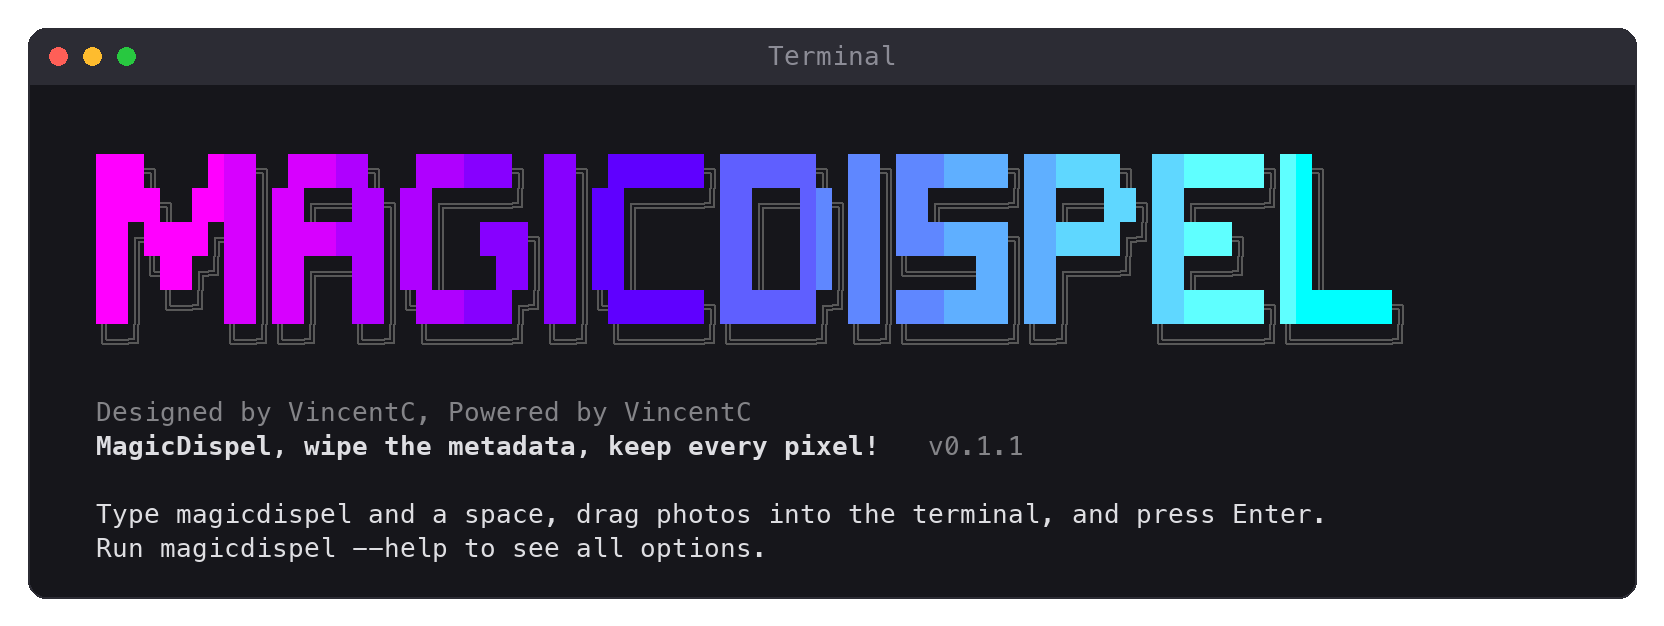
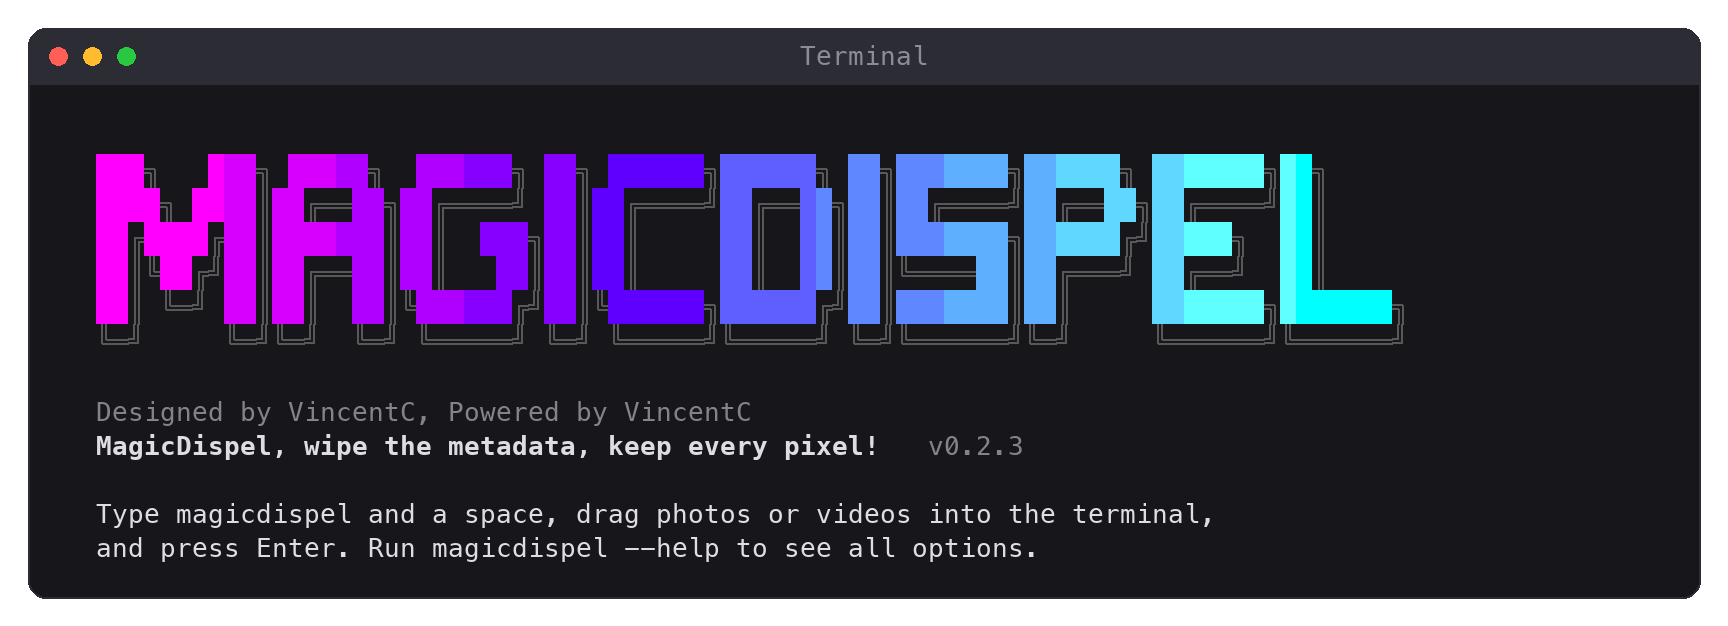
Release 0.2.3: refuse or bound what a damaged or made-up file can do, and close places to hide data
Files refused or saved wrongly, files that took minutes or gigabytes to check, and places where
a file made for it could hide data, found by an audit of 0.2.2 with a new model. The changelog
has the details.

diff --git a/src/magicdispel/__init__.py b/src/magicdispel/__init__.py
@@ -1,3 +1,3 @@
 """MagicDispel: clean common photo and video metadata locally, without recompression."""
 
-__version__ = "0.2.2"
+__version__ = "0.2.3"

diff --git a/CHANGELOG.md b/CHANGELOG.md
@@ -1,6 +1,6 @@
 # Changelog
 
-## Unreleased
+## 0.2.3 (2026-09-29)
 
 An audit of 0.2.2 by a new model read the whole code base and tried to make it misbehave. It
 found files refused or saved wrongly, files that took minutes or gigabytes to check, and places
